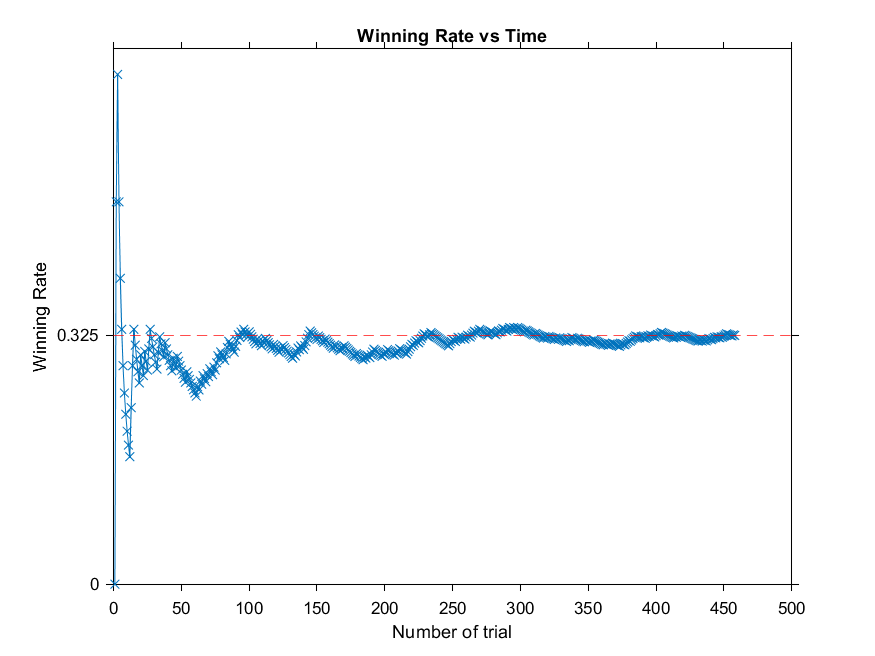
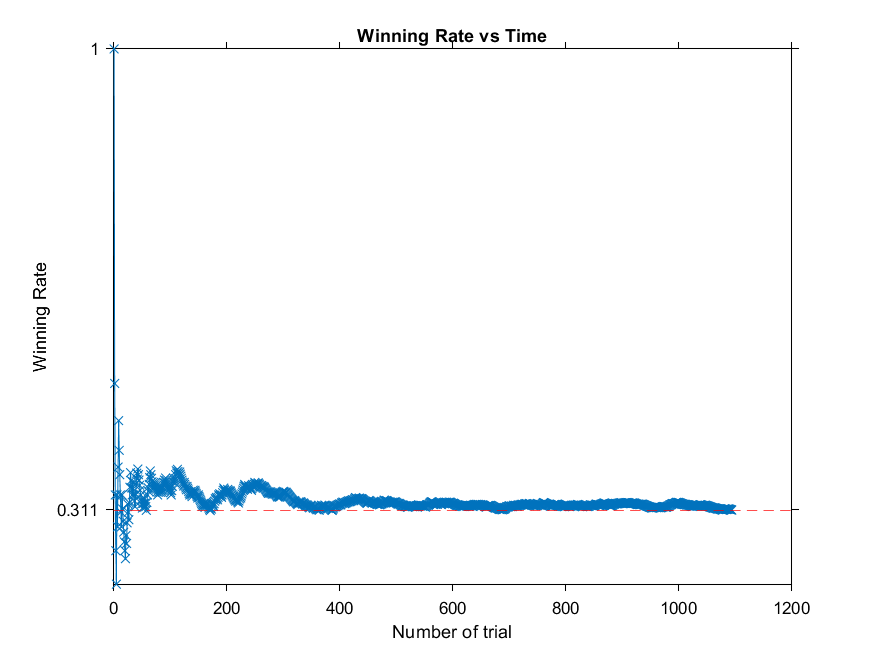
remove deep algorithm

diff --git a/hyperparams.py b/hyperparams.py
@@ -1,3 +1,3 @@
-mode = 'Expert' # Beginner / Intermediate / Expert
+mode = 'Expert' # Beginner / Intermediate
 algorithm = 'normal' # naive / normal / deep; "deep" algorithm needs matlab
 delay_click = 0.0001 # delay after a click. Bugs may occur if it's too small

diff --git a/README.md b/README.md
@@ -4,7 +4,7 @@ Playing Minesweeper itself
 ## Overview
 - Minesweeper Version: Minesweeper Arbiter 0.52 distribution
 - Time for each game: about 6s in Expert mode
-- Win Rate: 32.5%  
+- Win Rate: 31.1%  
 ![avatar](./result/win_rate.png)
 - Algorithm: clicking the block that is least likely to be bomb.
 
@@ -17,7 +17,7 @@ Playing Minesweeper itself
 
 ## Outline of the algorithm  
 ### 1. Get current minefield by reading the memory.   
-### 2. We implement 3 different algorithms to solve the task.  
+### 2. We implement 2 different algorithms to solve the task.  
 #### (1) Naive   
 - For each block, if the number of bombs around it equals to the unexplored blocks around it, mark all unexplored blocks around it with flags.
 - For each block, if the number of bombs around it equals to 0, click all unexplored blocks around it.
@@ -27,11 +27,4 @@ Playing Minesweeper itself
 - We regard each of the unexplored blocks as a variable. The value of these variables is 0 (safe) or 1 (bomb). And these variables satisfy many equations according to the blocks with number. Therefore, the task is to solve the multivariate linear equations.
 - We solve it by `output_possibility = np.matmul(np.linalg.pinv(x), y)`. (not very accurate)
 - Mark flags if `output_possibility` is 1 and click if `output_possibility` is 0. If nothing is done, then click the block with minimum `output_possibility`.
-#### (3) Deep  
-- For each block, compute the possibility that it is bomb respectively. Because I am more familiar with MATLAB, I make it with MATLAB-Python communication 
-- The problem can be seen as a system of linear equations. Each Blank-block is a variable x and x = 0 or 1. And "Number"-block is a constraint condition.
-- Using 'fmincon' functoin in MATLAB, the blocks that is definately safe could be found.
-- When we must guess a block, classical models of probability could be used. Some tricks must be taken to reduce the computation complexity. The possibility that each block to be bomb is computed.
-- Click the block that is least likely to be bomb.
-- Restart when failed or completed.
   
